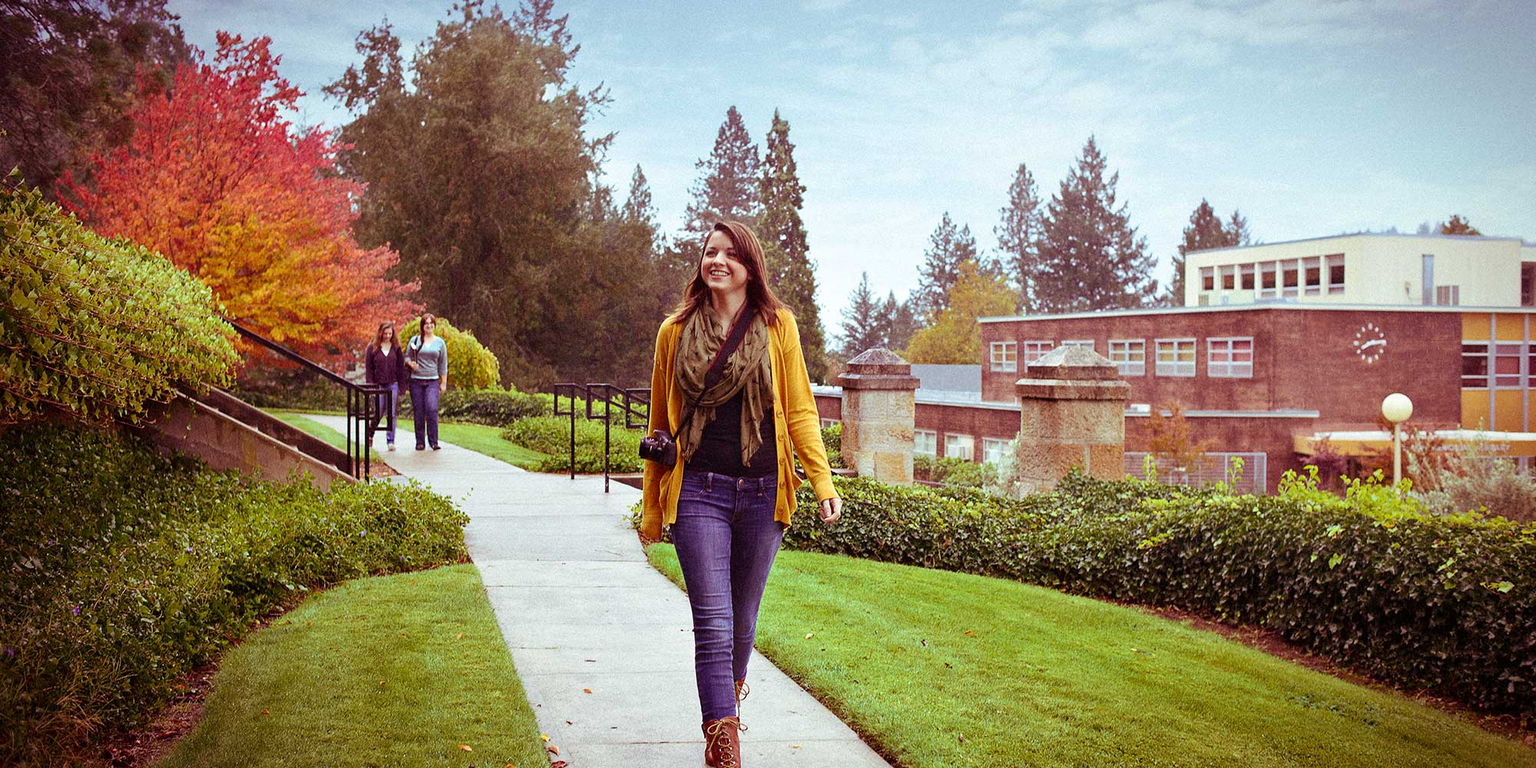
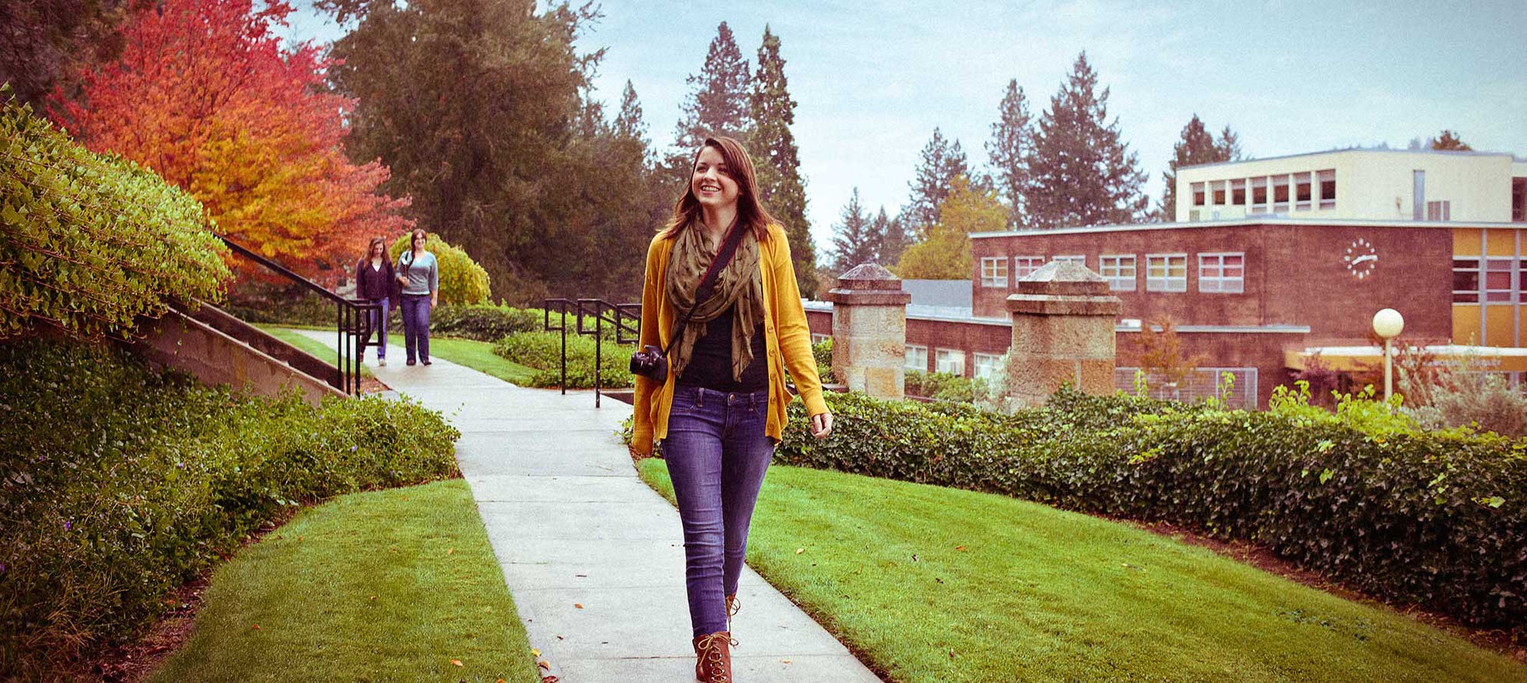
improved site

diff --git a/templates/static/index.css b/templates/static/index.css
@@ -1,11 +1,24 @@
-body{
-	font-size:16px;
-   	background-color: #73c7b4;
-    padding-top: 0;
+* {
+	margin: 0;
+	padding: 0;
 }
 
+body{
+	font-size:16px;
+   	background-color: #fff;
+    padding-top: 0;
+    /*73c7b4*/
+}
+
+html, body {height: 100%;}
+
+#wrap {min-height: 100%;}
+
+#main {overflow:auto;
+	padding-bottom: 50px;}  /* must be same height as the footer */
+
 #open-pic {
-	background-image: url(img/visitor.png);
+	background-image: url(img/visitor.jpg);
 	margin-top: 20px;
 	height: 500px;
 	width: 100%;
@@ -17,16 +30,40 @@ body{
 
 h1 {
 	font-family: 'Avant Garde', Avantagarde, 'Century Gothic', CenturyGothic, AppleGothic, sans-serif;
-	color: white;
+	color: #000;
 	font-size: 60px;
 	text-align: center;
 }
 
 h3 {
 	font-family: 'Avant Garde', Avantagarde, 'Century Gothic', CenturyGothic, AppleGothic, sans-serif;
-	color: white;
-	-webkit-margin-before: 0px;
-    -webkit-margin-after: 0px;
+	color: #000;
 	font-size: 20px;
 	text-align: center;
+	font-weight: 300;
+}
+
+#start-text {
+	text-align: center;
+}
+
+#footer {
+	position: relative;
+	margin-top: -50px; /* negative value of footer height */
+	height: 50px;
+	font-family: 'Avant Garde', Avantagarde, 'Century Gothic', CenturyGothic, AppleGothic, sans-serif;
+	clear:both;
+	color: #fff;
+	background-color: #808080;
+	text-align: center;
+	padding: 5px;
+} 
+
+/*Opera Fix*/
+body:before {
+	content:"";
+	height:100%;
+	float:left;
+	width:0;
+	margin-top:-32767px;/
 }

diff --git a/templates/index.html b/templates/index.html
@@ -4,13 +4,22 @@
   	<link rel="stylesheet" type="text/css" href="static/index.css" />
   </head>
   <body>
-  	<h1> VisWiz </h1>
-  	<h3> Get The Most Out Of Your College Visit </h3>
-  	<div id="open-pic">
- 		<!-- opening picture goes here -->
- 		<p id="start-text">
- 			Plan Your College Visit
- 		</p>
-  	</div>
+    <div id="wrap">
+      <div id="main">
+      	<h1> VisWiz </h1>
+      	<h3> Get The Most Out Of Your College Visit </h3>
+      	<div id="open-pic">
+     		<!-- opening picture goes here -->
+     		<!--<p id="start-text">
+     			Plan Your College Visit
+     		</p> -->
+    	  </div>
+      </div>
+    </div>
+    <div id="footer">
+      <p>VisWiz, the easy college visit tool</p>
+      <p>Contact information: <a href="mailto:someone@example.com">
+  viswiz@example.com</a>.</p>
+    </div>
   </body>
 </html>
